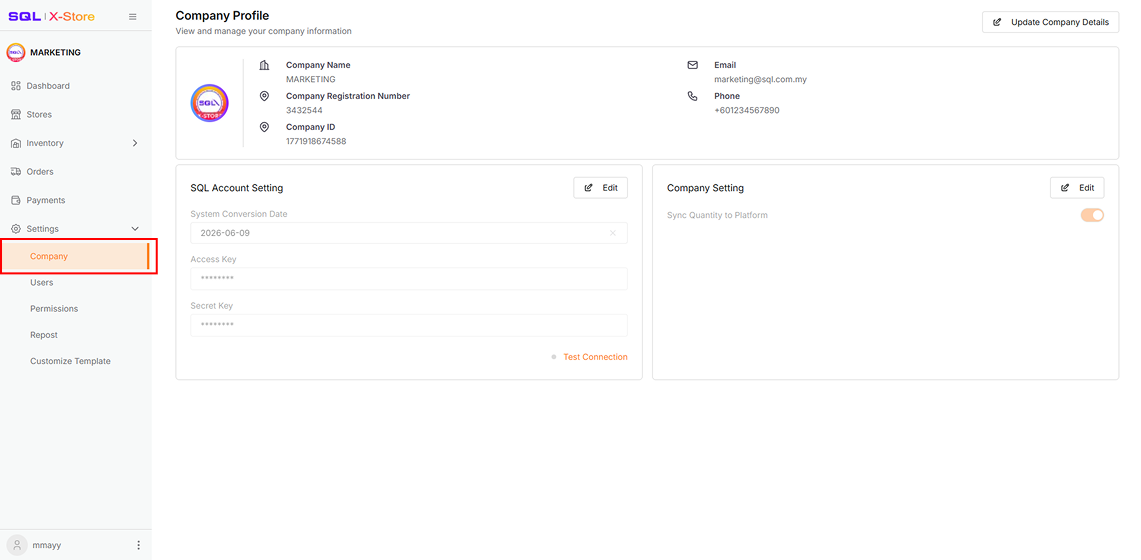
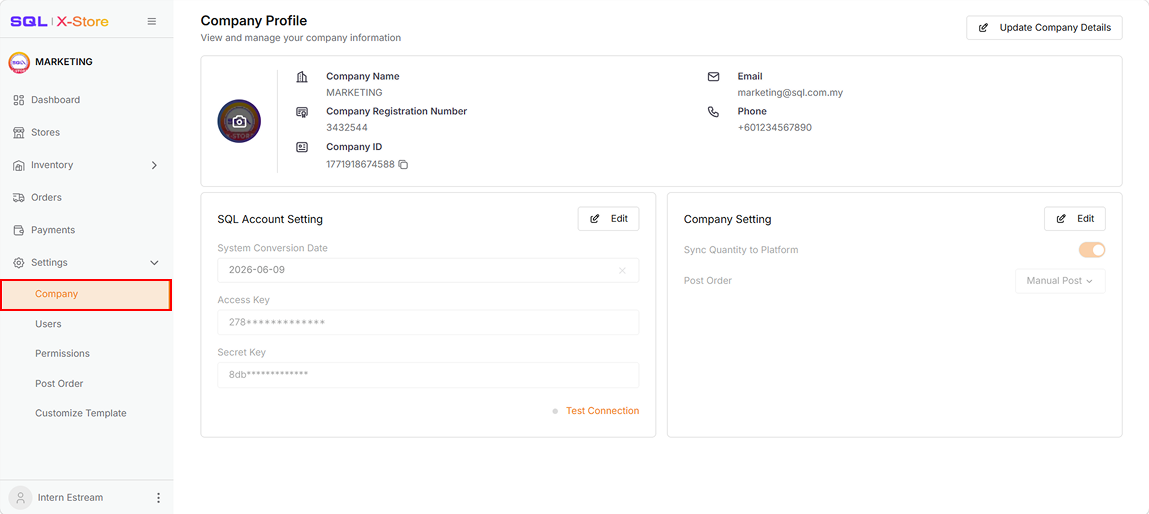
update: update settings documentation and clean post order from order documentation

diff --git a/docs/integration/xstore/settings.md b/docs/integration/xstore/settings.md
@@ -11,7 +11,7 @@ The Settings module consists of these main sections to help you manage your orga
 - **Company** - Manage your organization's profile and configuration
 - **Users** - Control team member access and invitations
 - **Permissions** - Define roles and access control
-- **Repost** - Repost orders to adjust invoices
+- **Post Orders** - Post invoices for the orders to SQL Account
 - **Customize Template** - Customize Picking List Template
 
 ## Company
@@ -20,7 +20,7 @@ The Settings module consists of these main sections to help you manage your orga
 Check out our [Setup Guide](../xstore/setup#step-1-create-company) for detailed instructions on creating your company profile.
 :::
 
-View and update your company's information, including business details and API configurations.
+View and update your company information, including business details and API configurations.
 
 ![company-overview](../../../static/img/xstore/settings/company-overview.png)
 
@@ -52,13 +52,15 @@ For more details on SQL Account configuration, see our [Setup Guide](../xstore/s
 You may add your SQL Account configuration here:
 
 1. System Conversion Date
-2. SQL Account Access key and Secret key
+2. SQL Account Access Key and Secret Key
+
+You can click **Test Connection** to verify the connection with the SQL Account API service. A green dot indicates a successful connection, and clicking it will display the SQL Account API version. A red dot indicates a connection error, and clicking it will display the error message.
 
 ![company-keys](../../../static/img/xstore/settings/company-keys.png)
 
 #### Company Setting
 
-Enable specific company features such as enabling **Auto Synchronize Quantity to Platform**.
+Enable specific company features such as enabling **Auto Synchronize Quantity to Platform** and update your desired default **Post Order Option** whether to *Manual Post* or *Post All*.
 
 ![company-sync](../../../static/img/xstore/settings/company-sync.png)
 
@@ -256,23 +258,55 @@ Roles can only be deleted if they're not assigned to any users. If the role is i
 
 ![permissions-role-create-dialog](../../../static/img/xstore/settings/permissions-role-create-dialog.png)
 
-## Repost
+## Post Order
 
-View posted orders and repost orders to update invoices.
+View orders in the Shipped, Delivered, or Completed state and post their invoices to SQL Account. This section has two tabs:
 
-![repost-overview](../../../static/img/xstore/settings/repost-overview.png)
+1. **Unposted Tab**: Orders that haven't been posted yet, or orders that were updated after their last posting date (i.e., the order's updated date is later than its posted date).
+2. **Posted Tab**: Orders that have already been posted and have no changes since.
 
-1. You can multiselect the orders and click the **Repost Order** button.
+![post-overview](../../../static/img/xstore/settings/post-overview.png)
 
-   ![repost-selection](../../../static/img/xstore/settings/repost-selection.png)
+You can change the View Options to see more order details, or use the filter options to narrow down which orders are displayed. By default, orders are filtered to those created within the last 30 days. You can include older orders by adjusting the filter options.
 
-2. Click **Continue** in the confirmation dialog to proceed or **Cancel** to discard operation.
+![post-view](../../../static/img/xstore/settings/post-view.png)
 
-   ![repost-confirmation](../../../static/img/xstore/settings/repost-confirmation.png)
+### Posting
 
-3. You can view the **Posted Date** and **Posted Message** in **Post Status** column.
+1. Select the orders you want to post, then click **Post Selected**. To select every order that matches your current filters, click **Select all filtered items**.
 
-   ![repost-history](../../../static/img/xstore/settings/repost-history.png)
+   ![post-selection](../../../static/img/xstore/settings/post-selection.png)
+
+2. To post all orders matching your current filters in the **Unposted Tab** at once, click the dropdown next to **Post Selected** and choose **Post All**. You can also set your preferred posting option in advance under [Company Setting](#company-setting).
+
+   ![post-all](../../../static/img/xstore/settings/post-all.png)
+
+3. Clicking **Post Selected** opens a confirmation dialog. Check **Include Cancelled Orders** if you want cancelled orders posted along with the rest, then click **Continue** to proceed. Click **Cancel** to back out without posting.
+
+   ![post-confirmation](../../../static/img/xstore/settings/post-confirmation.png)
+
+4. A progress card shows the status of the posting process. If **Include Cancelled Orders** isn't selected, cancelled orders are shown as skipped. Orders still waiting to be processed are shown as queued.
+
+   ![post-progress](../../../static/img/xstore/settings/post-progress.png)
+
+5. Once posting completes, successfully posted orders move to the **Posted Tab** and their *Posted Date* is updated. Orders that fail to post stay in the current tab, with the failure reason shown in the **Post Status** column.
+
+   ![post-success](../../../static/img/xstore/settings/post-success.png)
+
+6. If an order fails to post with the reason *"Shop SKU not mapped to SQL Account stock item"*, open the order's details page to map the SKU accordingly.
+
+   ![post-map](../../../static/img/xstore/settings/post-map.png)
+
+### Failed Posting
+
+1. Click **View Failed Results** to see orders that failed to post in the previous post process, along with their failure reasons.
+2. Filter orders by failure reason.
+3. Select the relevant orders individually, or use **Select all filtered items** to select every order with a matching failure reason.
+4. Repost selected orders.
+
+This is useful once you've resolved the underlying cause of a failure and want to retry posting those orders.
+
+![post-failed](../../../static/img/xstore/settings/post-failed.png)
 
 ## Customize Template
 

diff --git a/docs/integration/xstore/orders/orders.md b/docs/integration/xstore/orders/orders.md
@@ -87,6 +87,7 @@ Use **Stock Pick** to optionally verify order items before processing orders for
 ![stock-pick-order](../../../../static/img/xstore/orders/stock-pick-order.png)
 
 ![stock-pick-verification](../../../../static/img/xstore/orders/stock-pick-verification.png)
+
 1. Click on the screen and scan the barcode
 2. **Alternative:** Type the barcode number manually and press Enter
 3. **Alternative:** Type the quantity in the **Scanned Qty** field
@@ -145,44 +146,6 @@ To move verified orders to **To Ship**:
 | Action                     | Description                            |
 | -------------------------- | -------------------------------------- |
 | **Mark as Delivered**      | Mark the order as delivered            |
-
-### Step 7: Post Orders to SQL Account
-
-Once orders reach **Shipped**, **Delivered**, or **Completed** status, you may post orders to SQL Account:
-
-1. The Post Order feature provides two posting modes:
-
-   - **Post All** (default): Posts all available orders directly to SQL Account.
-
-   - **Manual Post**: Allows user to select specific orders to post.
-
-2. Click the dropdown button and select posting mode
-
-3. To post all orders, select Post All and click the **Post All** button
-
-   ![postAll-orders](../../../../static/img/xstore/orders/postAll.png)
-
-4. To post selected orders:
-
-   - Select Manual Post from the dropdown.
-
-   - Select orders by clicking the checkbox next to each order
-
-   ![manualPost-orders](../../../../static/img/xstore/orders/manualPost.png)
-
-5. Click the **Manual Post** button; a popup dialog will appear as shown below
-
-   ![post-order-dialog](../../../../static/img/xstore/orders/post-order-dialog.png)
-
-6. Select **Include Cancelled Orders** to post the cancelled orders too
-
-7. Once the post order is complete, a toast notification will appear as shown below
-
-   ![post-order-completed](../../../../static/img/xstore/orders/post-order-completed.png)
-
-8. Each order's post status can be checked in the table under the **Post Status** column:
-   - **Failed Reason:** there is some error when posting the order
-   - **Posted Date:** the order had been posted before. May try to repost in **[Settings > Repost](../settings.md#repost)**
 
 ## General Features
 
